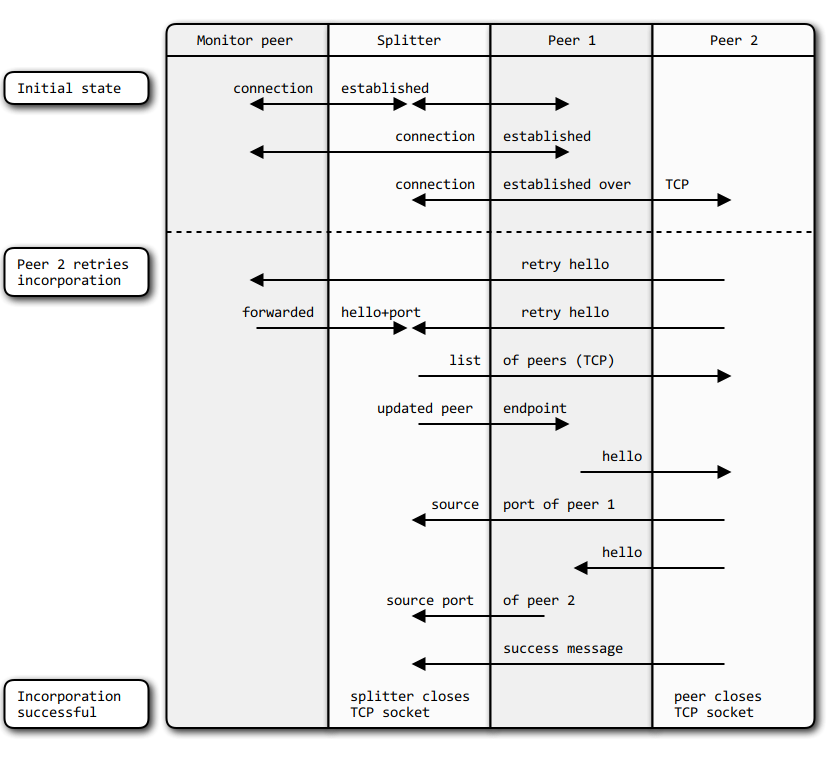
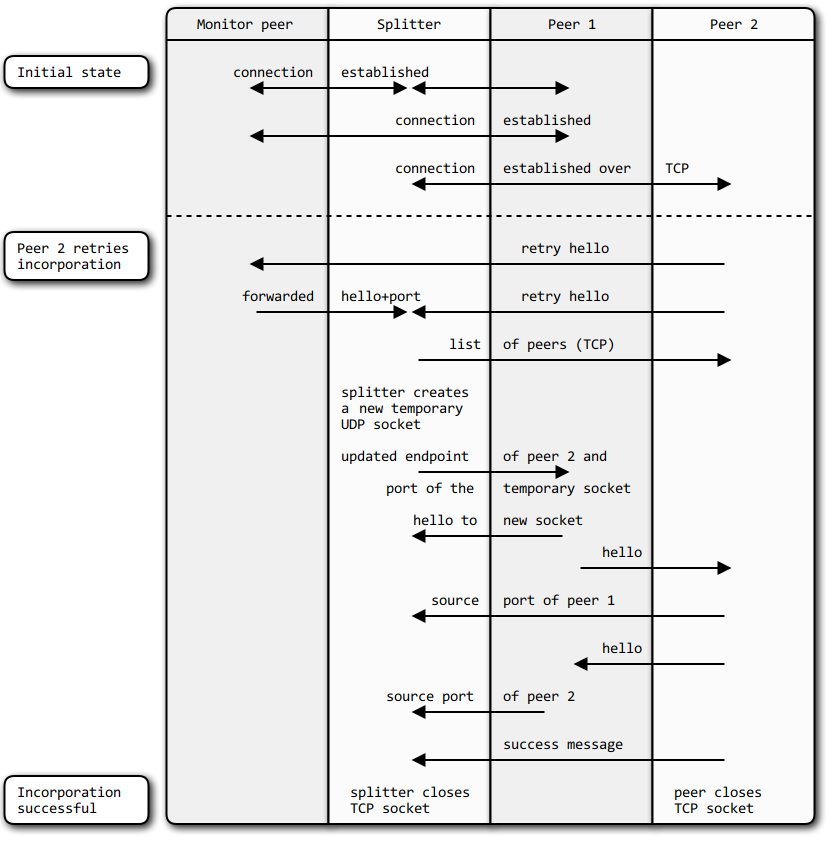
Updated documentation on SYMSP source port retrieval.

diff --git a/doc/NAT_traversal.md b/doc/NAT_traversal.md
@@ -279,6 +279,18 @@ The NAT traversal classes are developed in such a way that repeatedly arriving
 messages do not affect the communication between peers.
 
 
+### SYMSP source port update
+The splitter saves the last known source port of all peers. When a new peer
+arrives a long time after the last peer has arrived, then this information may
+be out of date, if another UDP packet has been sent from any host behind the
+same SYMSP NAT. To retrieve the currently allocated source port of such a peer,
+during incorporation of a new peer all already incorporated peers with a
+`port_step > 0` send a hello message to a new temporary UDP socket at the
+splitter, for which a new source port at the peers is allocated. So if the
+arriving peer fails to connect to one of the peers, when retrying incorporation
+it can rely on an up to date source port.
+
+
 ### NAT traversal method
 The sequence of messages when a new peer is arriving and another peer has
 already been incorporated into the team is shown in the diagram below:
@@ -294,8 +306,11 @@ already been incorporated into the team is shown in the diagram below:
   until an acknowledge is received.
 * The monitor forwards the hello message to the splitter, appending the source
   port of peer 2 towards the monitor.
-* The splitter determines the port step of peer 2 using the hello messages, and
-  sends address, port and determined port step to peer 1.
+* The splitter determines the port step of peer 2 using the hello messages.
+* The splitter binds a new socket to a random port and sends address, port and
+  determined port step of peer 2 and the port of the new socket to peer 1.
+* Peer 1 sends a hello message to the new splitter socket to determine its
+  currently allocated source port for later peer arrivals.
 * Peer 1 and 2 start sending hello messages to each other, each for a number of
   predicted possible ports, until an acknowledge is received.
 * When receiving a hello message, the peers send the used source port of the
@@ -327,8 +342,11 @@ it retries to join the team with a new UDP socket:
   incorporated.
 * The monitor forwards the retry message to the splitter, appending the source
   port of peer 2 towards the monitor.
-* The splitter determines the port step of peer 2 using the retry messages, and
-  sends address, port and determined port step to peer 1.
+* The splitter determines the port step of peer 2 using the retry messages.
+* The splitter binds a new socket to a random port and sends address, port and
+  determined port step of peer 2 and the port of the new socket to peer 1.
+* Peer 1 sends a hello message to the new splitter socket to determine its
+  currently allocated source port for later peer arrivals.
 * Peer 1 and 2 start sending hello messages to each other, each for a number of
   predicted possible ports, until an acknowledge is received.
 * When receiving a hello message, the peers send the used source port of the
